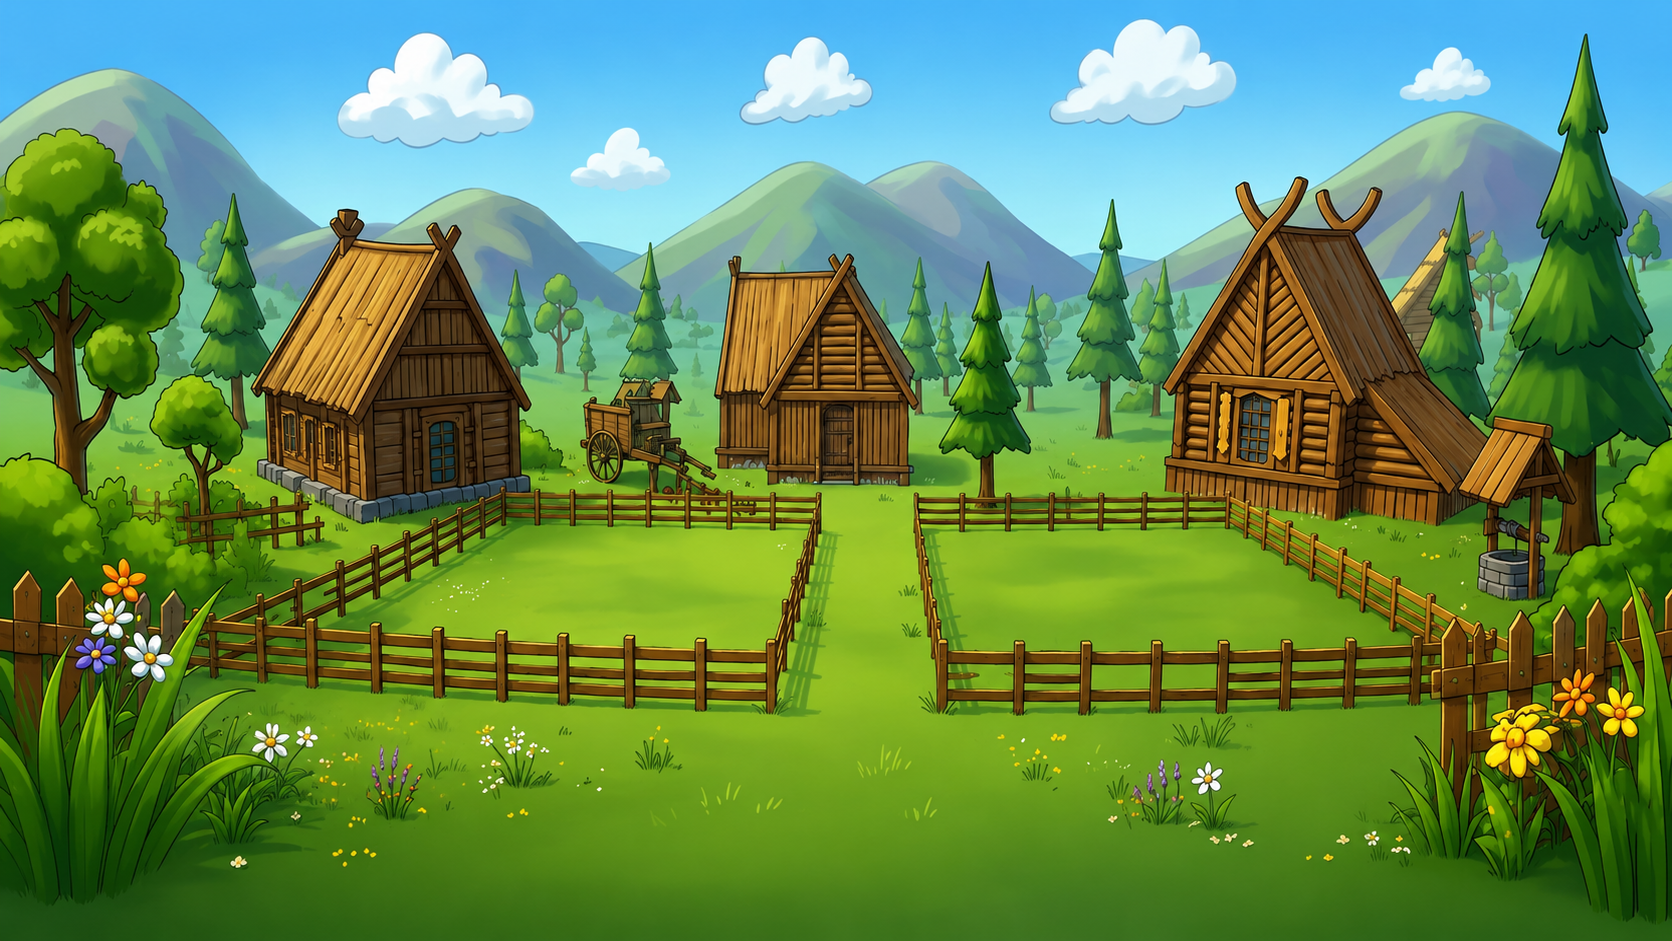
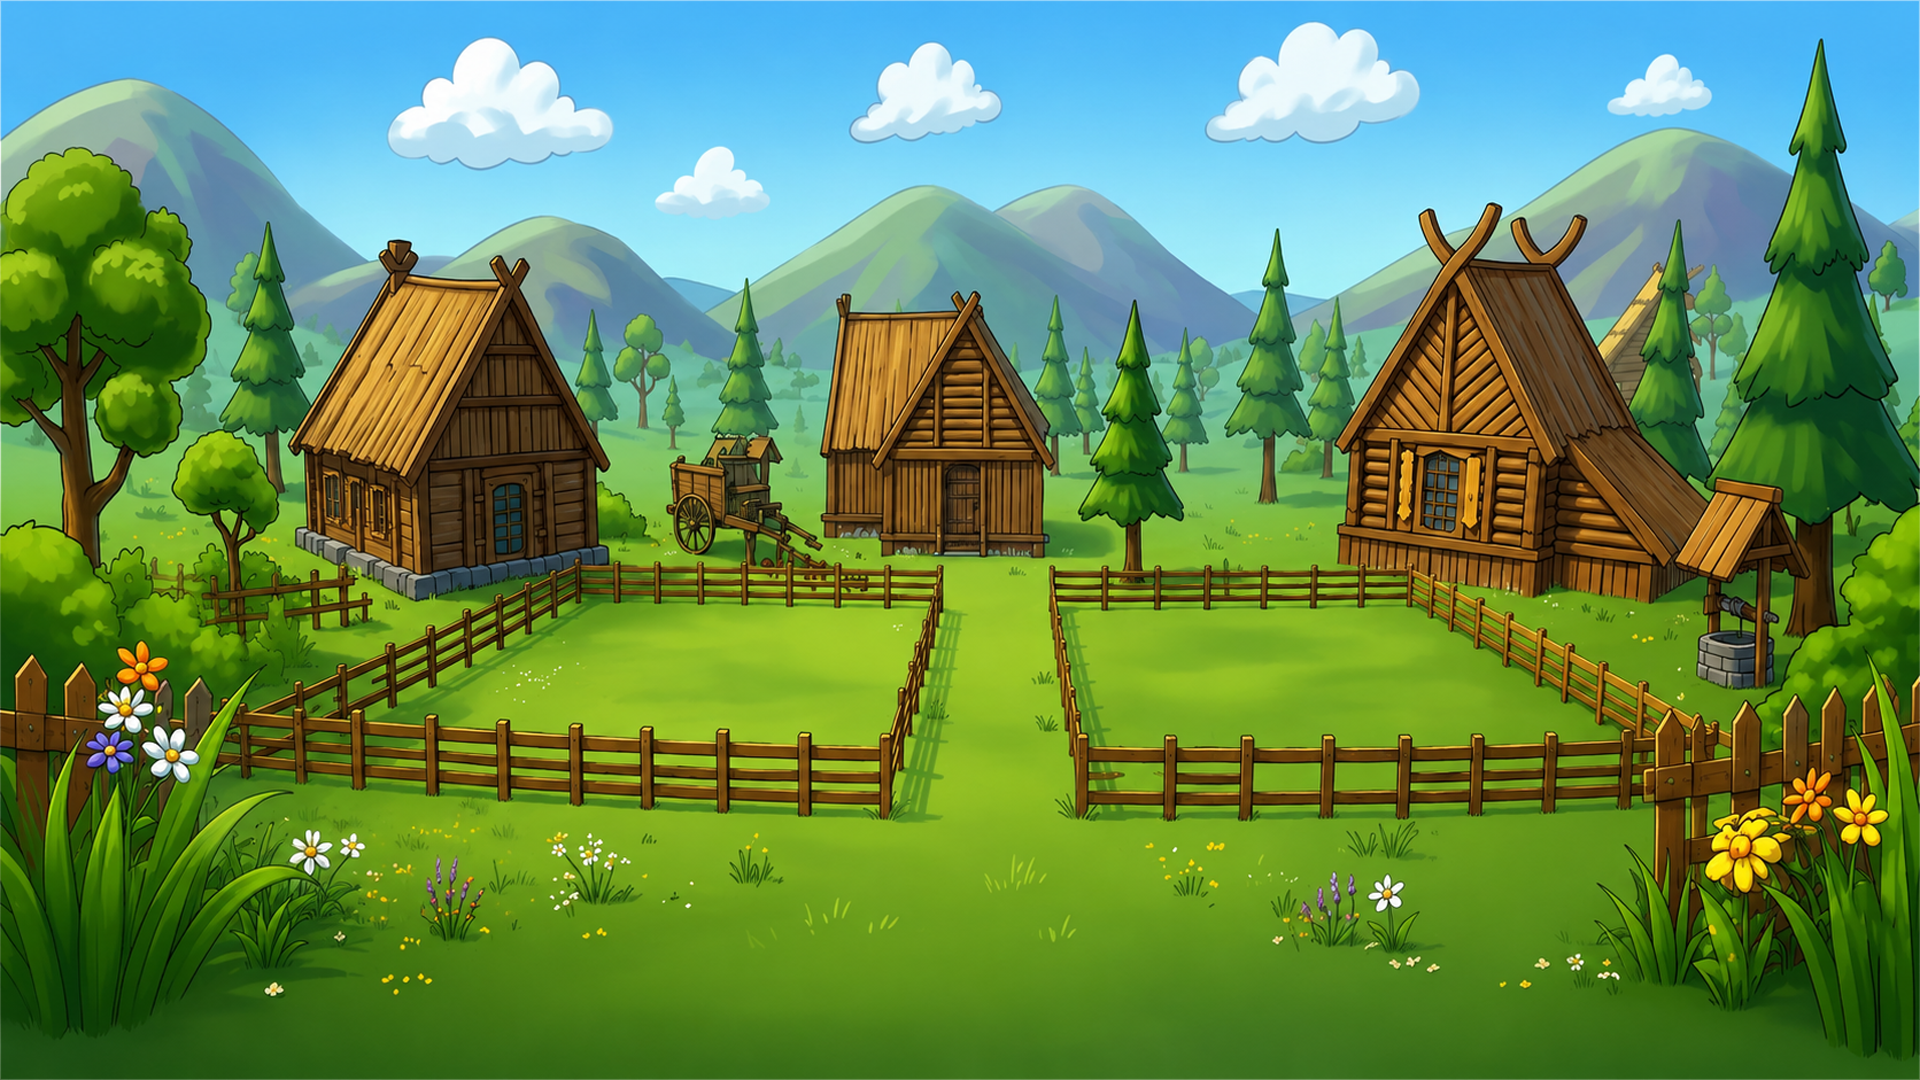
- Update :  logic m_MaxRetryAttempts to login

Changed region(s): [[0.9952, 0.0, 1.0, 1.0]]

diff --git a/Assets/Master/Scripts/Bootstrap/BootstrapManager.cs b/Assets/Master/Scripts/Bootstrap/BootstrapManager.cs
@@ -1,4 +1,5 @@
 using Cysharp.Threading.Tasks;
+using System;
 using System.Collections;
 using System.Collections.Generic;
 using System.Runtime.InteropServices;
@@ -7,6 +8,7 @@ using Zenject;
 public class BootstrapManager : MonoBehaviour
 {
     [SerializeField] private bool m_IsClearTokensOnStart = true;
+    private int m_MaxRetryAttempts = 5;
 
     [Inject] private readonly AuthService m_AuthService;
     [Inject] private readonly SceneLoader m_SceneLoader;
@@ -21,22 +23,48 @@ public class BootstrapManager : MonoBehaviour
     {
         if (TokenManager.HasToken())
         {
-            Debug.Log("Token found in PlayerPrefs. Redirecting to Main scene.");
-            bool dataLoaded = await m_UserDataService.LoadAllDataAsync();
-            if (dataLoaded)
-            {
-                await m_SceneLoader.LoadSceneWithLoadingBar(Config.Main_Scene);
-            }
-            else
-            {
-                Debug.LogError("Failed to load user data.");
-            }
+            Debug.Log("Token found in PlayerPrefs. Trying to load data...");
+            await HandleUserBootstrappingAsync();
         }
         else
         {
-           
             Debug.Log("No token found. Redirecting to Login scene.");
             await m_SceneLoader.LoadSceneWithoutLoadingBar(Config.Login_Scene);
         }
+    }
+    private async UniTask HandleUserBootstrappingAsync()
+    {
+        for (int attempt = 1; attempt <= m_MaxRetryAttempts; attempt++)
+        {
+            LoadDataResult result = await m_UserDataService.LoadAllDataAsync();
+
+            if (result == LoadDataResult.Success)
+            {
+                await m_SceneLoader.LoadSceneWithLoadingBar(Config.Main_Scene);
+                return;
+            }
+
+            if (result == LoadDataResult.Unauthorized)
+            {
+                Debug.LogWarning("Session expired. Clearing tokens and redirecting to Login.");
+                await RedirectToLoginAsync();
+                return; 
+            }
+
+            Debug.LogWarning($"Fetch data failed ({attempt}/{m_MaxRetryAttempts}).");
+
+            if (attempt < m_MaxRetryAttempts)
+            {
+                Debug.Log("Waiting for 3 seconds before retrying...");
+                await UniTask.Delay(TimeSpan.FromSeconds(3));
+            }
+        }
+        Debug.LogError($"Fetch data failed after {m_MaxRetryAttempts}.");
+        await RedirectToLoginAsync();
+    }
+    private async UniTask RedirectToLoginAsync()
+    {
+        TokenManager.ClearTokens();
+        await m_SceneLoader.LoadSceneWithoutLoadingBar(Config.Login_Scene);
     }
 }

diff --git a/Assets/Master/Scripts/Login/LoginManager.cs b/Assets/Master/Scripts/Login/LoginManager.cs
@@ -24,26 +24,39 @@ public class LoginManager : MonoBehaviour
     private void HandleLoginRequest(LoginRequestSignal signal) => ProgressLoginRequest(signal).Forget(); // foret the async method since we don't need to await it here.
     private async UniTaskVoid ProgressLoginRequest(LoginRequestSignal signal)
     {
-        var authResult = await m_AuthService.LoginAsync(signal.UserName, signal.Password);
-
-        if (authResult.IsSuccess)
+        try
         {
-            bool dataLoaded = await m_UserDataService.LoadAllDataAsync();
-            if (dataLoaded)
+            var authResult = await m_AuthService.LoginAsync(signal.UserName, signal.Password);
+
+            if (!authResult.IsSuccess)
             {
-                m_SignalBus.Fire(new LoginSuccessSignal()); // Fire a signal to LoginUI
+                m_SignalBus.Fire(new LoginFailedSignal());
+                return; 
+            }
+
+            LoadDataResult dataResult = await m_UserDataService.LoadAllDataAsync();
+
+            if (dataResult == LoadDataResult.Success)
+            {
+                m_SignalBus.Fire(new LoginSuccessSignal());
                 await m_SceneLoader.LoadSceneWithLoadingBar(Config.Main_Scene);
             }
             else
             {
-                TokenManager.ClearTokens();
-                m_SignalBus.Fire(new LoginDataErrorSignal()); // Fire a signal to LoginUI
+                if (dataResult == LoadDataResult.Unauthorized)
+                {
+                    TokenManager.ClearTokens();
+                }
+
+                m_SignalBus.Fire(new LoginDataErrorSignal());
             }
         }
-        else
+        catch (Exception ex)
         {
-            m_SignalBus.Fire(new LoginFailedSignal()); // Fire a signal to LoginUI
+            Debug.LogError($"[LoginManager] Critical error during login process: {ex.Message}");
+            m_SignalBus.Fire(new LoginFailedSignal());
         }
-
     }
+
+
 }

diff --git a/Assets/Master/Scripts/Core/Services/UserDataService.cs b/Assets/Master/Scripts/Core/Services/UserDataService.cs
@@ -12,7 +12,7 @@ public class UserDataService
 
     [Inject] private readonly SignalBus m_SignalBus;
 
-    public async UniTask<bool> LoadAllDataAsync()
+    public async UniTask<LoadDataResult> LoadAllDataAsync()
     {
         string url = ApiConfig.API_DATA_URL;
         string token = TokenManager.GetAccessToken();
@@ -30,19 +30,23 @@ public class UserDataService
                     //Debug.Log($"Raw JSON response: {jsonResponse}");
                     IsLoaded = true;
                     m_SignalBus.Fire(new UserDataLoadedSignal(Data));
-                    return true;
+                    return LoadDataResult.Success;
                 }
-                else
+                if (request.responseCode == 401) // Token expired or unauthorized
                 {
-                    Debug.LogError($"API Error: {request.error}");
-                    return false;
+                    Debug.LogWarning("Token expired (401 Unauthorized).");
+                    return LoadDataResult.Unauthorized;
                 }
+
+                // Other errors
+                Debug.LogError($"API Network Error: {request.error} (Code: {request.responseCode})");
+                return LoadDataResult.FetchError;
             }
         }
         catch (Exception ex)
         {
             Debug.LogError($"Error loading user data: {ex.Message}");
-            return false;
+            return LoadDataResult.FetchError;
         }
     }
     public void ResetData()

diff --git a/Assets/Master/Scripts/Data/LoadDataResult.cs b/Assets/Master/Scripts/Data/LoadDataResult.cs
@@ -1,0 +1,10 @@
+using System.Collections;
+using System.Collections.Generic;
+using UnityEngine;
+
+public enum LoadDataResult 
+{
+    Success,       
+    Unauthorized,  
+    FetchError  
+}
